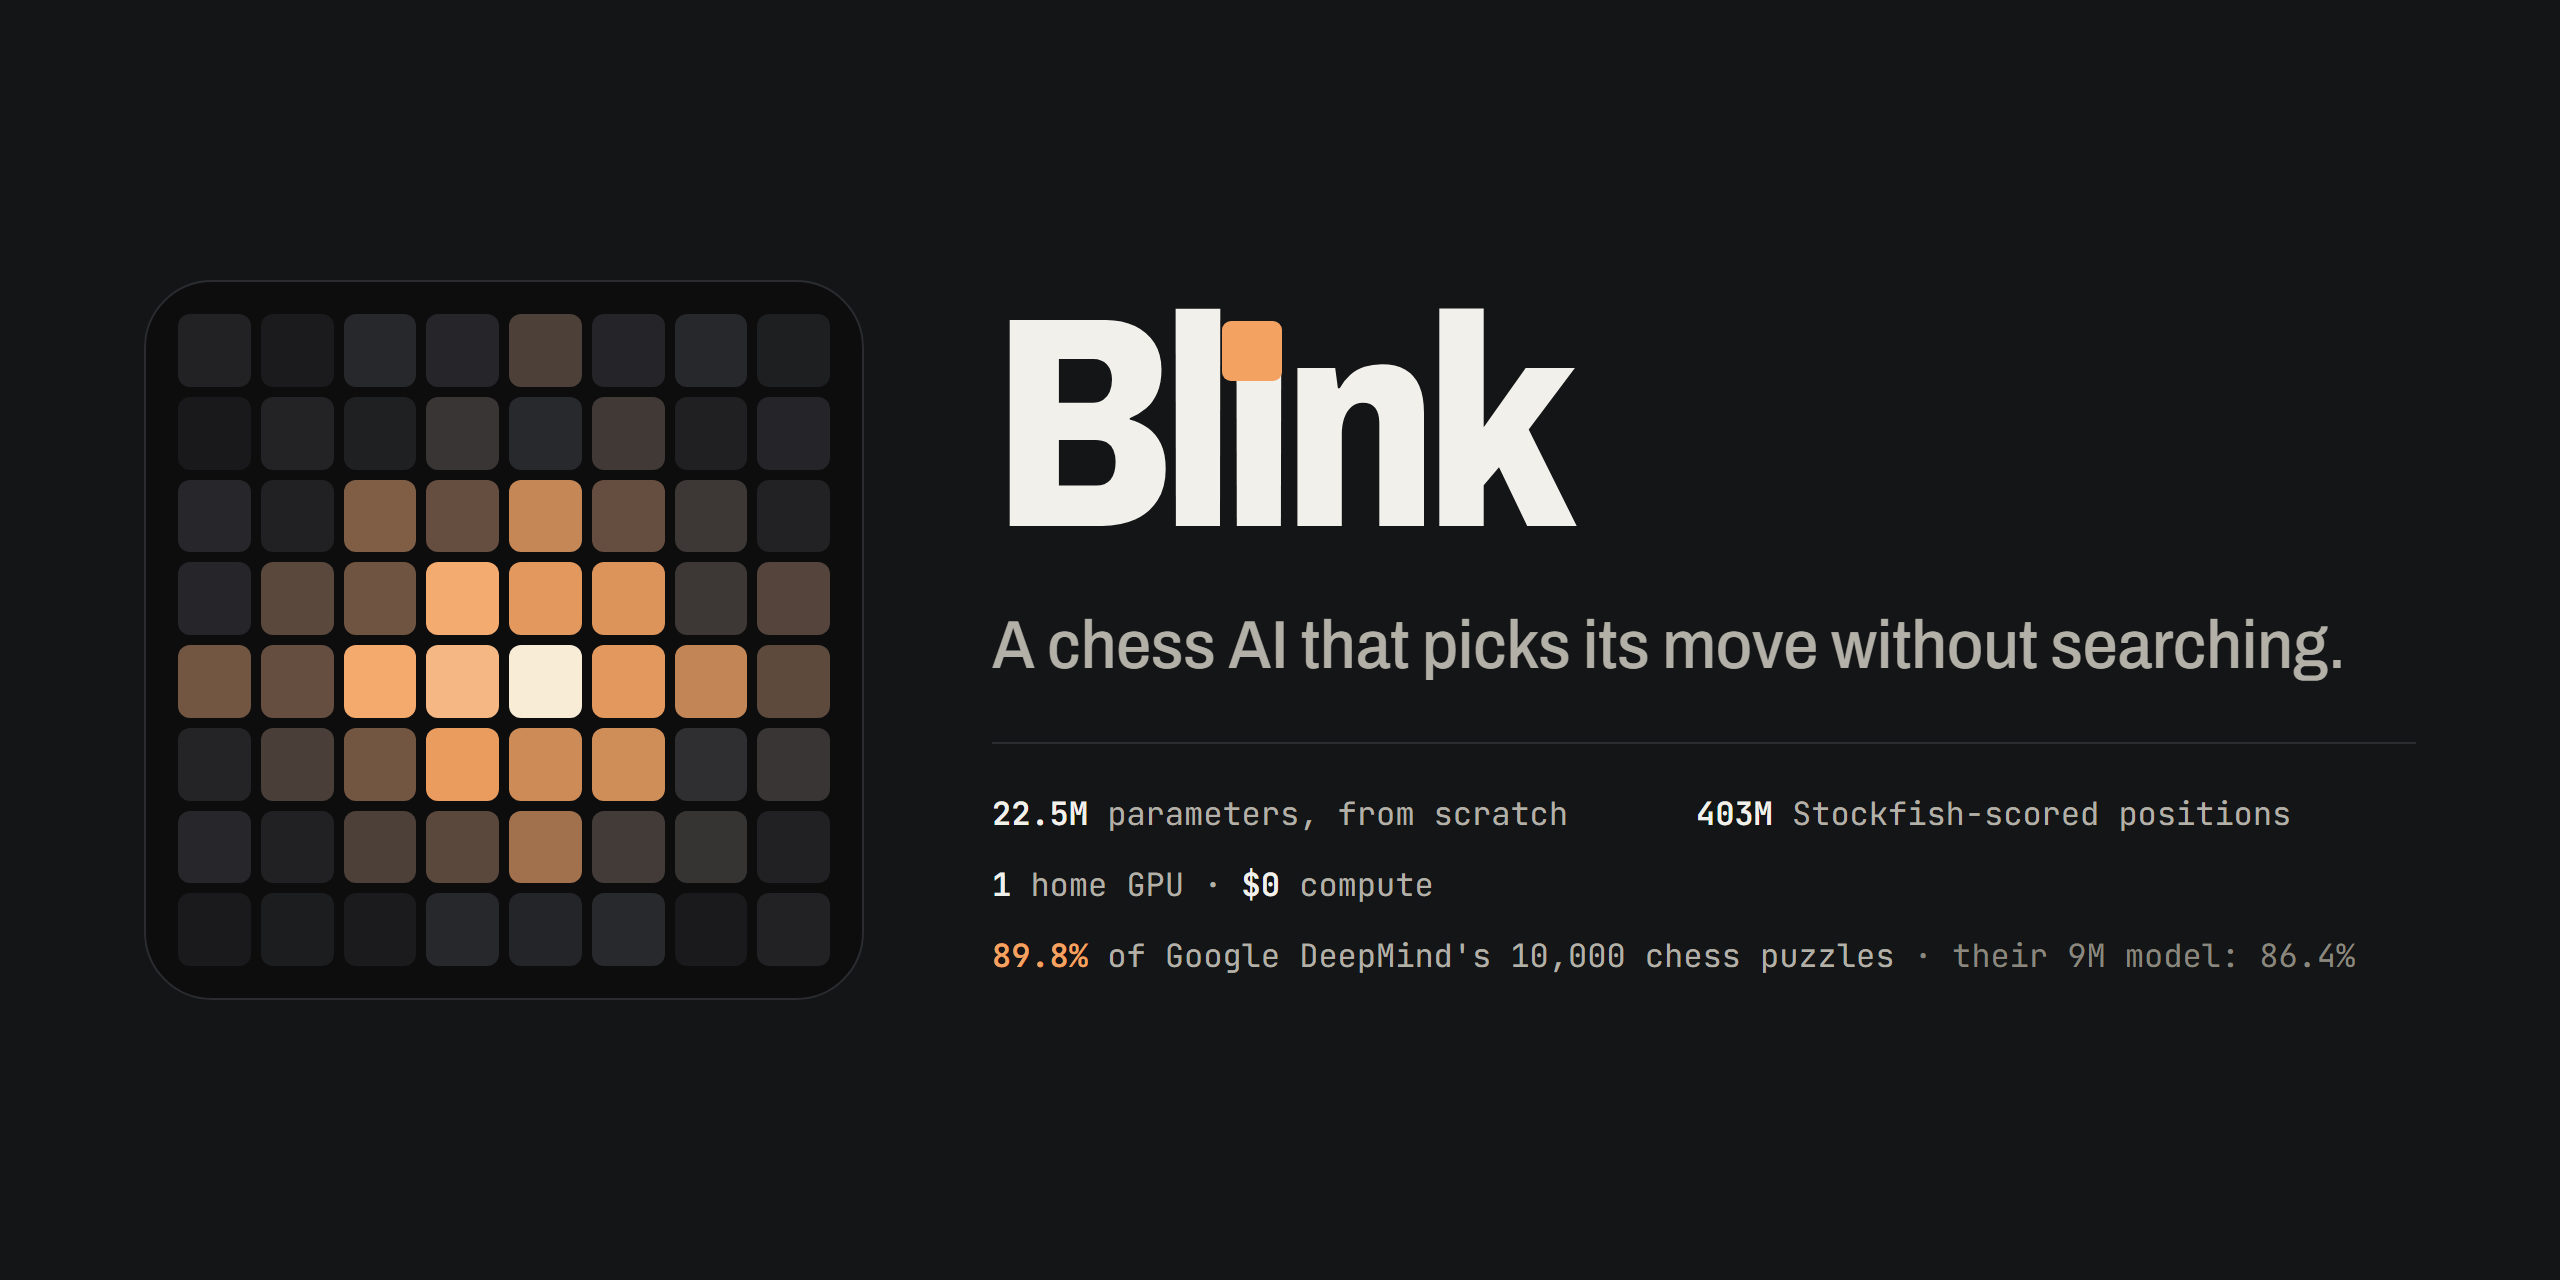
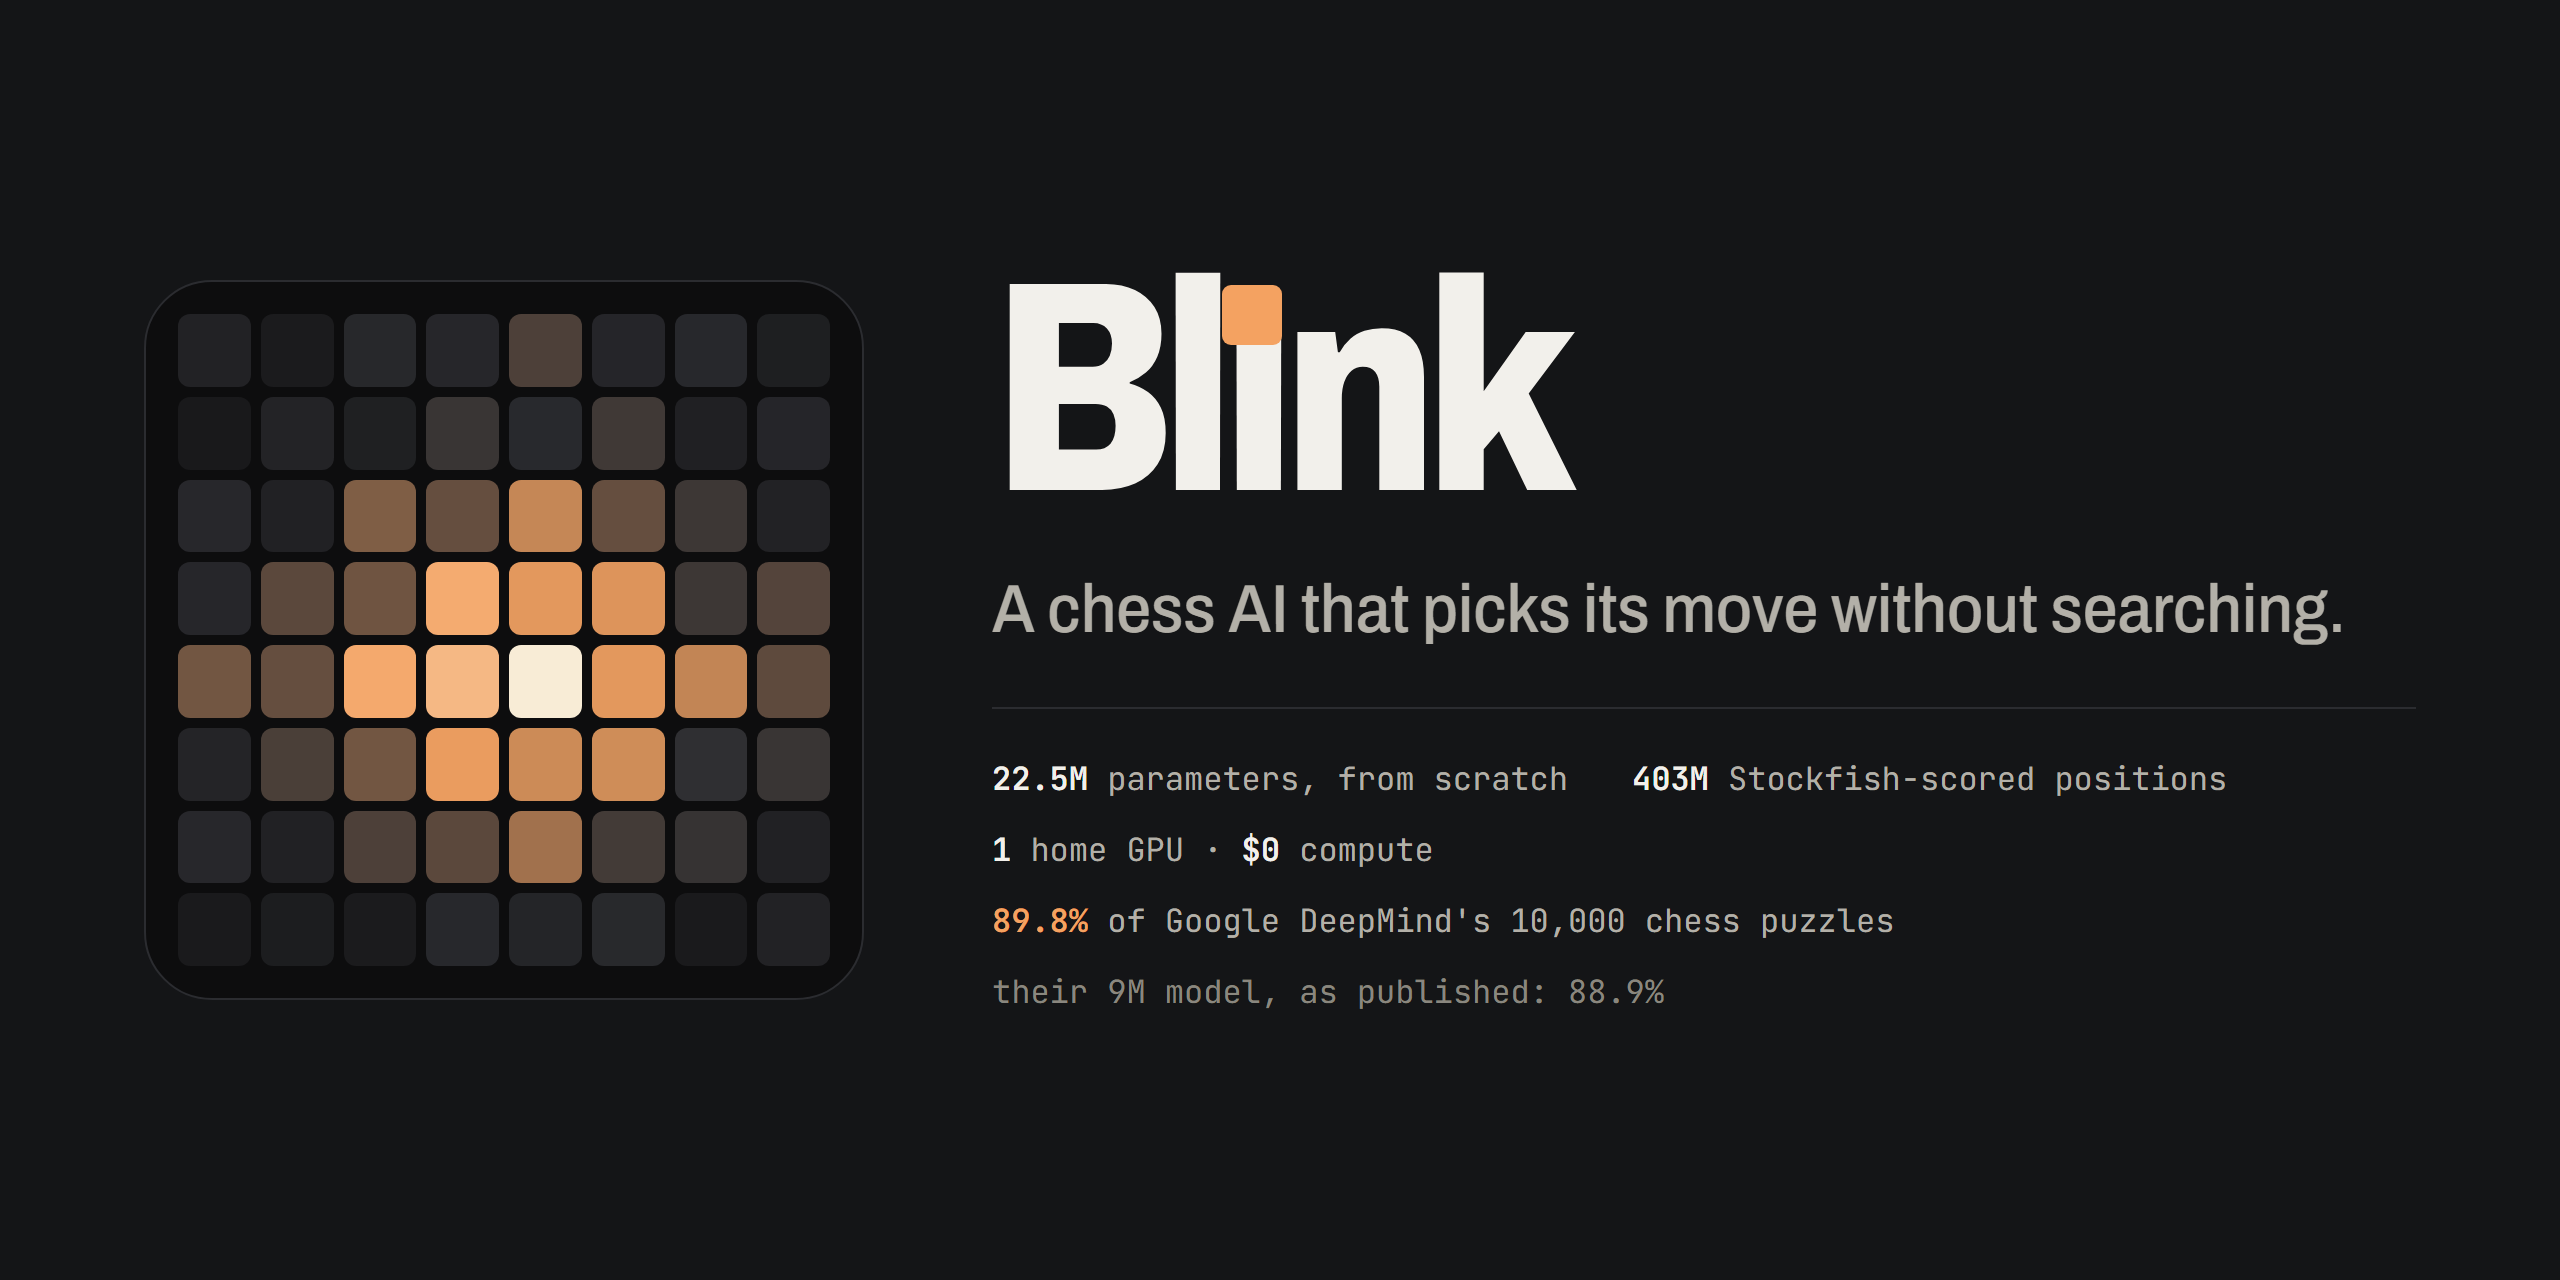
docs: add Google DeepMind's published 9M score (88.9%) beside the re-measured checkpoint

diff --git a/README.md b/README.md
@@ -13,19 +13,22 @@ positions.
 ## Results
 
 Google DeepMind's 10,000-puzzle benchmark from
-[Grandmaster-Level Chess Without Search](https://arxiv.org/abs/2402.04494) (Ruoss et al., 2024). Both
-models were measured here, on the same puzzles, with the same scorer: DeepMind's released 9M checkpoint
-was ported to PyTorch and re-measured rather than quoted from the paper.
+[Grandmaster-Level Chess Without Search](https://arxiv.org/abs/2402.04494) (Ruoss et al., 2024).
 
 | all 10,000 puzzles | solved | 95% interval |
 |---|---|---|
 | **Blink**, one look per move (value mode) | **89.8%** (8,981) | 89.2 to 90.4 |
 | Blink, one look (policy mode) | 83.8% (8,375) | 83.0 to 84.5 |
-| DeepMind 9M, EMA weights | 86.4% (8,638) | 85.7 to 87.0 |
-| DeepMind 9M, released weights | 86.2% (8,620) | 85.5 to 86.9 |
+| Google DeepMind 9M, as published (paper v2) | 88.9% | |
+| Google DeepMind 9M, released checkpoint, EMA weights | 86.4% (8,638) | 85.7 to 87.0 |
+| Google DeepMind 9M, released checkpoint, plain weights | 86.2% (8,620) | 85.5 to 86.9 |
 
-Head to head on the same puzzles, against DeepMind's better weights: Blink alone solves 698 of them and
-DeepMind 9M alone solves 355 (a paired z of 10.6).
+The paper reports 88.9% for its 9M model after 10M training steps (v1 of the paper reported 85.5%). The
+checkpoint Google DeepMind released is from step 6.4M (`checkpoint_step` in its `src/engines/constants.py`),
+so it was ported to PyTorch and measured here, on the same puzzles, with the same scorer as Blink.
+
+Head to head on the same puzzles, against the released checkpoint's better weights: Blink alone solves 698
+of them and Google DeepMind 9M alone solves 355 (a paired z of 10.6).
 
 By puzzle rating, value mode, all 10,000: 99.5% under 1000, 97.9% at 1000-1500, 90.8% at 1500-2000,
 67.9% at 2000-2500 and 30.6% above 2500.
@@ -37,7 +40,7 @@ two ways:
 
 - **One look (policy mode):** one pass through the network, straight to a move.
 - **One look per move (value mode):** the network scores the position after each legal move once, in one
-  batch, and plays the best. It never looks at the opponent's reply. DeepMind's action-value models play
+  batch, and plays the best. It never looks at the opponent's reply. Google DeepMind's action-value models play
   the same way.
 
 The exact rule, what counts as search and how every published game proves compliance, is in
@@ -50,7 +53,7 @@ The exact rule, what counts as search and how every published game proves compli
 | data | 409.7M Lichess positions; 403.5M train roots after a 636,245-position leakage blocklist, 0 leaks in the verify pass |
 | recipe | 8 experiments on a 5M-parameter model at 1.5 hours each (7 single changes, then the winners combined), judged against a 3-seed noise floor; only a change that beat the baseline by 2 standard deviations was kept. One did: the Muon optimizer |
 | size | the 22.5M model was checked on a 6-hour branch before the long run: 58.7% move agreement with Stockfish, against 55.1% for the small models |
-| flagship | 19.6 training hours on the RTX 3070, the last 5.3 of them a cooldown; I stopped it from the interim puzzle checks, once it was clearly past DeepMind's 9M model, by a rule written before the run (EVAL.md, PR-6) |
+| flagship | 19.6 training hours on the RTX 3070, the last 5.3 of them a cooldown; I stopped it from the interim puzzle checks, once it was clearly past Google DeepMind's released 9M checkpoint, by a rule written before the run (EVAL.md, PR-6) |
 
 The puzzle score during training, value mode, on the first 2,000 puzzles:
 
